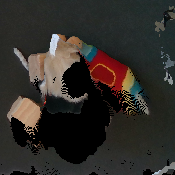
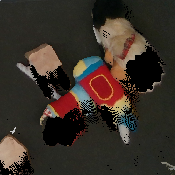
Somehow get_heightmaps workspace lim is affecting pyUR wksp lims??? I'm going bonkers

diff --git a/robot.py b/robot.py
@@ -27,25 +27,7 @@ class Robot(object):
             pass
         # If in real-settings...
         else:
-            # self.r = urx.Robot(tcp_host_ip)
-            # self.r.set_tcp((0, 0, 0, 0, 0, 0))
-            # self.r.set_payload(0.5, (0, 0, 0))
-
             # self.gripper = Robotiq_Two_Finger_Gripper(self.r)
-
-            # NOTE: this is for D415
-            # home_in_deg = np.array(
-            # [-151.4, -93.7, 85.4, -90, -90, 0]) * 1.0
-
-            # Default home joint configuration
-            # NOTE: this is orig
-            # self.home_joint_config = [-(180.0/360.0)*2*np.pi, -(84.2/360.0)*2*np.pi,
-            # (112.8/360.0)*2*np.pi, -(119.7/360.0)*2*np.pi, -(90.0/360.0)*2*np.pi, 0.0]
-
-            # NOTE this is only for calibrate.py (reduce retry time) - #
-            # checkerboard flat and pointing up
-            # self.home_joint_config = [-np.pi, -
-            # np.pi/2, np.pi/2, 0, np.pi/2, np.pi]
 
             # Default joint speed configuration
             # self.joint_acc = 8 # Safe: 1.4
@@ -53,19 +35,16 @@ class Robot(object):
             self.joint_acc = 1.0  # Safe when set 30% spe71ed on pendant
             self.joint_vel = 0.7
 
-            # Default tool speed configuration
-            # self.tool_acc = 1.2 # Safe: 0.5
-            # self.tool_vel = 0.25 # Safe: 0.2
-            # self.tool_acc = 0.1  # Safe when set 30% speed on pendant
-            # self.tool_vtel = 0.1
-
             # Connect to robot client
             # self.tcp_host_ip = tcp_host_ip
             # self.tcp_port = tcp_port
 
-            # port is assumed to be 30002
+            # NOTE: port is assumed to be 30002
+            self.workspace_limits = workspace_limits
+
             self.r = URcomm(tcp_host_ip, self.joint_vel,
-                            self.joint_acc, home_joint_config, workspace_limits=workspace_limits)
+                            self.joint_acc, home_joint_config=home_joint_config,
+                            workspace_limits=workspace_limits)
 
             # Move robot to home pose
             self.r.go_home()
@@ -97,23 +76,23 @@ class Robot(object):
 
     def grasp_object(self, position, orientation):
         # throttle z position
-        grasping_gripper_height_from_tcp = 0.155
-        # position[2] = max(position[2] - 0.050, self.workspace_limits[2][0])
-        # TODO: Fix the limits / maxing for safety 
         print('grasp prediction z:', position[2])
-        position[2] = max(position[2], self.r.moveto_limits[2][0])
-        # grasping_gripper_height_from_tcp)
+        # NOTE: This is affected by workspace limits in get_heightmap!!!
+        position[2] = max(position[2], self.workspace_limits[2][0]) + 0.01
+
+        print('safetied grasp prediction z: ', position[2])
 
         self.r.open_gripper()
         # move fast to right above the object
         # height of gripper?
-        self.r.move_to([position[0], position[1], position[2] + 0.100],
+        self.r.move_to([position[0], position[1], position[2] + 0.155],
                        orientation)
         # then slowly move down
-        self.move_to(position, orientation,
-                     vel=0.5*self.joint_vel, acc=0.1*self.joint_acc)
+        print('position', position, 'orientation', orientation)
+        self.r.move_to(position, orientation)
+        # vel=0.5*self.joint_vel, acc=0.1*self.joint_acc)
         # and grasp it
-        self.close_gripper()
+        self.r.close_gripper()
 
     def grasp(self, position, heightmap_rotation_angle, workspace_limits):
         print('Executing: grasp at (%f, %f, %f)' %
@@ -151,7 +130,7 @@ class Robot(object):
             # position
             # TODO: GRASP  ORIENTATION
             # tool_orientation = [1.19, -1.26, -1.22]
-            tool_orientation = [2.23, 2.30, -0.03]
+            tool_orientation = [2.15, -2.25, -0.10]
             tilted_tool_orientation = tool_orientation
             # Attempt grasp
             print('!--- Attempting to open gripper, then go down & close --!')
@@ -223,7 +202,7 @@ class Robot(object):
 
             # NOTE: mine
             # bin_position = [0.580, -0.040, 0.300]
-            bin_position = [-0.500, 0.279, -0.160]
+            bin_position = [-0.550, -0.276, -0.150]
             # home_position = [0.400, 0.000, 0.260]
             # NOTE: mine, and doesn't block the view
             # home_position = [0.400, -0.100, 0.420]
@@ -231,7 +210,7 @@ class Robot(object):
             # D415
             # home_position = [-0.464, -0.097, -0.151]
             home_position = [-0.414, -0.266, -0.192]
-            home_orientation = [2.28, 2.26, -0.04]
+            home_orientation = [2.28, -2.26, -0.04]
 
             # If gripper is open, drop object in bin and check if grasp is successful
             # grasp_success = False
@@ -248,11 +227,12 @@ class Robot(object):
 
                 # Attempt placing in bin
                 print("attempting to drop into bin and then go home")
-                self.move_to(bin_position, None)
-                self.open_gripper()
+                self.r.move_to(bin_position, None, override_safety=True)
+                self.r.open_gripper()
 
                 print('Going home now')
-                self.move_to(home_position, home_orientation)
+                self.r.move_to(home_position, home_orientation,
+                               override_safety=True)
 
                 # NOTE: original code separates into approach and throw (tilted) parts
                 '''

diff --git a/utils.py b/utils.py
@@ -40,11 +40,23 @@ def get_pointcloud(color_img, depth_img, camera_intrinsics):
     return cam_pts, rgb_pts
 
 
-def get_heightmap(color_img, depth_img, cam_intrinsics, cam_pose, workspace_limits, heightmap_resolution):
+def get_heightmap(color_img, depth_img, cam_intrinsics, cam_pose, heightmap_limits, heightmap_resolution):
+    # NOTE: Dirty hack, normal limits are higher since TCP must be (gripper
+    # height) above actual table for gripper to not hit the table
+    # otherwsie depth_hieghtmap is blank
+    heightmap_limits[2][0] = -0.420
+    heightmap_limits[2][1] = -0.310
+    print(' for get_heightmap, lowered workspace limits', heightmap_limits)
 
+    if color_img.shape[0] > 250:
+        k = 1.  # 0.64
+        # Scale image, to change heightmap resolution, so resultant image is 224x224
+        color_img = cv2.resize(color_img, (0, 0), fx=k, fy=k)
+        depth_img = cv2.resize(depth_img, (0, 0), fx=k, fy=k)
+        heightmap_resolution = 0.002*(1./k)
     # Compute heightmap size
-    heightmap_size = np.round(((workspace_limits[1][1] - workspace_limits[1][0])/heightmap_resolution,
-                               (workspace_limits[0][1] - workspace_limits[0][0])/heightmap_resolution)).astype(int)
+    heightmap_size = np.round(((heightmap_limits[1][1] - heightmap_limits[1][0])/heightmap_resolution,
+                               (heightmap_limits[0][1] - heightmap_limits[0][0])/heightmap_resolution)).astype(int)
 
     # Get 3D point cloud from RGB-D images
     surface_pts, color_pts = get_pointcloud(
@@ -58,15 +70,11 @@ def get_heightmap(color_img, depth_img, cam_intrinsics, cam_pose, workspace_limi
     sort_z_ind = np.argsort(surface_pts[:, 2])
     surface_pts = surface_pts[sort_z_ind]
     color_pts = color_pts[sort_z_ind]
-    print('avg surface points after undistory height',
-          np.average(surface_pts[:, 2]))
 
     # Filter out surface points outside heightmap boundaries
-    heightmap_valid_ind = np.logical_and(np.logical_and(np.logical_and(np.logical_and(surface_pts[:, 0] >= workspace_limits[0][0], surface_pts[:, 0] < workspace_limits[
-                                         0][1]), surface_pts[:, 1] >= workspace_limits[1][0]), surface_pts[:, 1] < workspace_limits[1][1]), surface_pts[:, 2] < workspace_limits[2][1])
+    heightmap_valid_ind = np.logical_and(np.logical_and(np.logical_and(np.logical_and(surface_pts[:, 0] >= heightmap_limits[0][0], surface_pts[:, 0] < heightmap_limits[
+                                         0][1]), surface_pts[:, 1] >= heightmap_limits[1][0]), surface_pts[:, 1] < heightmap_limits[1][1]), surface_pts[:, 2] < heightmap_limits[2][1])
     surface_pts = surface_pts[heightmap_valid_ind]
-    print('avg surface points after undistory height',
-          np.average(surface_pts[:, 2]))
     color_pts = color_pts[heightmap_valid_ind]
 
     # Create orthographic top-down-view RGB-D heightmaps
@@ -78,27 +86,19 @@ def get_heightmap(color_img, depth_img, cam_intrinsics, cam_pose, workspace_limi
         (heightmap_size[0], heightmap_size[1], 1), dtype=np.uint8)
     depth_heightmap = np.zeros(heightmap_size)
     heightmap_pix_x = np.floor(
-        (surface_pts[:, 0] - workspace_limits[0][0])/heightmap_resolution).astype(int)
+        (surface_pts[:, 0] - heightmap_limits[0][0])/heightmap_resolution).astype(int)
     heightmap_pix_y = np.floor(
-        (surface_pts[:, 1] - workspace_limits[1][0])/heightmap_resolution).astype(int)
+        (surface_pts[:, 1] - heightmap_limits[1][0])/heightmap_resolution).astype(int)
     color_heightmap_r[heightmap_pix_y, heightmap_pix_x] = color_pts[:, [0]]
     color_heightmap_g[heightmap_pix_y, heightmap_pix_x] = color_pts[:, [1]]
     color_heightmap_b[heightmap_pix_y, heightmap_pix_x] = color_pts[:, [2]]
     color_heightmap = np.concatenate(
         (color_heightmap_r, color_heightmap_g, color_heightmap_b), axis=2)
     depth_heightmap[heightmap_pix_y, heightmap_pix_x] = surface_pts[:, 2]
-    z_bottom = workspace_limits[2][0]
+    z_bottom = heightmap_limits[2][0]
     depth_heightmap = depth_heightmap - z_bottom
-    print('avg depth after zeroing against workspace floor',
-          np.average(depth_heightmap))
-    print('depth map', depth_heightmap)
-
     depth_heightmap[depth_heightmap < 0] = 0
-    print('-z bottom', -z_bottom)
-    print('avg depth after deleting neg heights', np.average(depth_heightmap))
-    print('where is it equal', depth_heightmap[depth_heightmap == -z_bottom])
     depth_heightmap[depth_heightmap == -z_bottom] = np.nan
-    print('avg depth after zeroing', np.average(depth_heightmap))
 
     return color_heightmap, depth_heightmap
 

diff --git a/pyUR.py b/pyUR.py
@@ -27,24 +27,21 @@ class URcomm(object):
         if home_joint_config is None:
             home_in_deg = np.array(
                 [-10.5, -50.5, 125., -71.9, -277.5, -1.4]) * 1.0
-            # [-107, -105, 130, -92, -44, -30]) * 1.0  # sideways # bent wrist 1 2
-            # [-197, -105, 130, -110, -90, -30]) * 1.0
-
-            # [-107, -105, 130, -110, -90, -30]) * 1.0  # sideways
-            # [-107, -105, 130, -85, -90, -30]) * 1.0  # sideways bent wrist
             self.home_joint_config = np.deg2rad(home_in_deg)
         else:
             self.home_joint_config = home_joint_config
-        #self.logger.debug("Home config: " + self.home_joint_config)
+        self.logger.debug("Home config: " + str(self.home_joint_config))
 
         # self.moveto_limits = (
-         #   [[0.300, 0.600], [-0.250, 0.180], [0.195, 0.571]])
+        #   [[0.300, 0.600], [-0.250, 0.180], [0.195, 0.571]])
 
         # self.moveto_limits = np.asarray(
-            # [[-0.700, -0.350], [-0.125, 0.225], [-0.290, -0.195]])  # grasp pos
+        # [[-0.700, -0.350], [-0.125, 0.225], [-0.290, -0.195]])  # grasp pos
 
-        self.moveto_limits = np.asarray(
-            [[-0.650, -0.400], [-0.100, 0.100], [-0.300, -0.150]])  # for calib
+        self.A_moveto_limits = workspace_limits
+        print('in urcomm init we have limits', self.A_moveto_limits)
+        # self.moveto_limits = np.asarray(
+        # [[-0.650, -0.400], [-0.100, 0.100], [-0.300, -0.150]])  # for calib
         # Tool pose tolerance for blocking calls (meters)
         # HACK lower tolerance for now 31 July,bent wrist move not completing
         # self.pose_tolerance = [0.002, 0.002, 0.002, 0.010, 0.010, 0.010]
@@ -212,18 +209,24 @@ class URcomm(object):
 
     # -- Move commands
 
-    def move_to(self, position, orientation, vel=None, acc=None, radius=0, wait=True):
+    def move_to(self, position, orientation, vel=None, acc=None, radius=0,
+                wait=True, override_safety=False):
         if vel is None:
             vel = self.joint_vel
         if acc is None:
             acc = self.joint_acc
         # position ins meters, orientation is axis-angle
-        if self._is_safe(position, self.moveto_limits):
+        moveto_lims = np.asarray(
+            [[-0.700, -0.350], [-0.125, 0.225], [-0.300, -0.000]])  # grasp pos
+
+        print('in move to we have A limits', self.A_moveto_limits)
+        if self._is_safe(position, moveto_lims) or override_safety:
             prog = "def moveTo():\n"
             # t = 0, r = radius
             if orientation is None:
                 self.logger.info(
                     "Attempting to move position but keep orientation")
+                print('keep current orient')
                 orientation = self.get_state('cartesian_info')[3:]
 
             prog += self._format_move("movel", np.concatenate((position, orientation)),
@@ -232,10 +235,11 @@ class URcomm(object):
             self.send_program(prog)
         else:
             print("NOT Safe. NOT moving to: %s, due to LIMITS: %s",
-                  position, self.moveto_limits)
+                  position, moveto_lims)
             # self.logger.info("NOT Safe. NOT moving to: %s, due to LIMITS: %s",
             # position, self.moveto_limits)
         if wait:
+            print('wiaitng for', position, orientation)
             self._wait_for_move(np.concatenate((position, orientation)),
                                 joints=False)
 

diff --git a/heightmap_test.py b/heightmap_test.py
@@ -24,7 +24,7 @@ cam_intrinsics = camera.intrinsics
 print(cam_depth_scale, cam_intrinsics)
 
 workspace_limits = np.asarray(
-    [[-0.710, -0.360], [-0.115, 0.235], [-0.450, -0.310]])  # with gripper horizontal
+    [[-0.710, -0.360], [-0.115, 0.235], [-0.420, -0.310]])  # with gripper horizontal
 # [[-0.700, -0.350], [-0.125, 0.225], [-0.420, -0.300]])  # with gripper vertical
 
 # Cam intrinsices are sent by camera directly
@@ -35,10 +35,10 @@ workspace_limits = np.asarray(
 # color_img = cv2.imread('color.png', 0)
 # depth_img = cv2.imread('depth.png', 0)
 color_img, depth_img = camera.get_data()
-print('color image shape', color_img.shape)
+# print('color image shape', color_img.shape)
 depth_img = depth_img * cam_depth_scale
-print('depthimage shape', depth_img.shape)
-print('avg depth', np.average(depth_img))
+# print('depthimage shape', depth_img.shape)
+# print('avg depth', np.average(depth_img))
 k = 1.
 # Scale image, to change heightmap resolution, so resultant image is 224x224
 color_img = cv2.resize(color_img, (0, 0), fx=k, fy=k)
@@ -48,23 +48,22 @@ heightmap_resolution = 0.002*(1./k)
 
 color_heightmap, depth_heightmap = utils.get_heightmap(
     color_img, depth_img, cam_intrinsics, cam_pose, workspace_limits, heightmap_resolution)
-print('avg ndistorted depth', np.average(depth_heightmap))
+# print('avg ndistorted depth', np.average(depth_heightmap))
 
 valid_depth_heightmap = depth_heightmap.copy()
 valid_depth_heightmap[np.isnan(valid_depth_heightmap)] = 0
 
-
 # logger.save_heightmaps(1, color_heightmap, valid_depth_heightmap, '0')
 
 color_image = cv2.cvtColor(color_img, cv2.COLOR_RGB2BGR)
-print('color image saved shape', color_image.shape)
+# print('color image saved shape', color_image.shape)
 cv2.imwrite(os.path.join(debug_dir, 'color.png'), color_image)
 # Save depth in 1e-4 meters
 depth_image = np.round(depth_img * 10000).astype(np.uint16)
 cv2.imwrite(os.path.join(debug_dir, 'depth.png'), depth_image)
 
 color_heightmap = cv2.cvtColor(color_heightmap, cv2.COLOR_RGB2BGR)
-print('color heighmap saved shape', color_heightmap.shape)
+# print('color heighmap saved shape', color_heightmap.shape)
 cv2.imwrite(os.path.join(debug_dir, 'color_heightmap.png'), color_heightmap)
 
 # Save depth in 1e-5 meters

diff --git a/main.py b/main.py
@@ -55,7 +55,8 @@ def main(args):
         # workspace_limits = np.asarray(
             # [[-0.584, -0.380], [.100, 0.325], [-0.250, -0.100]])
         workspace_limits = np.asarray(
-            [[-0.700, -0.350], [-0.125, 0.225], [-0.420, -0.300]])  # calib pos
+            [[-0.700, -0.350], [-0.125, 0.225], [-0.300, -0.000]])  # grasp pos
+        # [[-0.700, -0.350], [-0.125, 0.225], [-0.420, -0.220]])  # calib pos
 
     heightmap_resolution = args.heightmap_resolution  # Meters per pixel of heightmap
     random_seed = args.random_seed
@@ -95,12 +96,14 @@ def main(args):
     # Set random seed
     np.random.seed(random_seed)
 
-    home_rad = np.deg2rad([20.2, -26.6, 116.8, -183.3, 268.8, 20.2])
+    # home_rad = np.deg2rad([20.2, -26.6, 116.8, -183.3, 268.8, 20.2])
+    home_rad = np.deg2rad([16.6, -26.5, 116.8, -184.6, -90.4, 198.4])
 
     # Initialize pick-and-place system (camera and robot)
     robot = Robot(is_sim, obj_mesh_dir, num_obj, workspace_limits,
                   tcp_host_ip, tcp_port, rtc_host_ip, rtc_port,
-                  is_testing, test_preset_cases, test_preset_file, home_joint_config=home_rad)
+                  is_testing, test_preset_cases, test_preset_file,
+                  home_joint_config=home_rad)
 
     # Initialize trainer
     trainer = Trainer(method, push_rewards, future_reward_discount,
